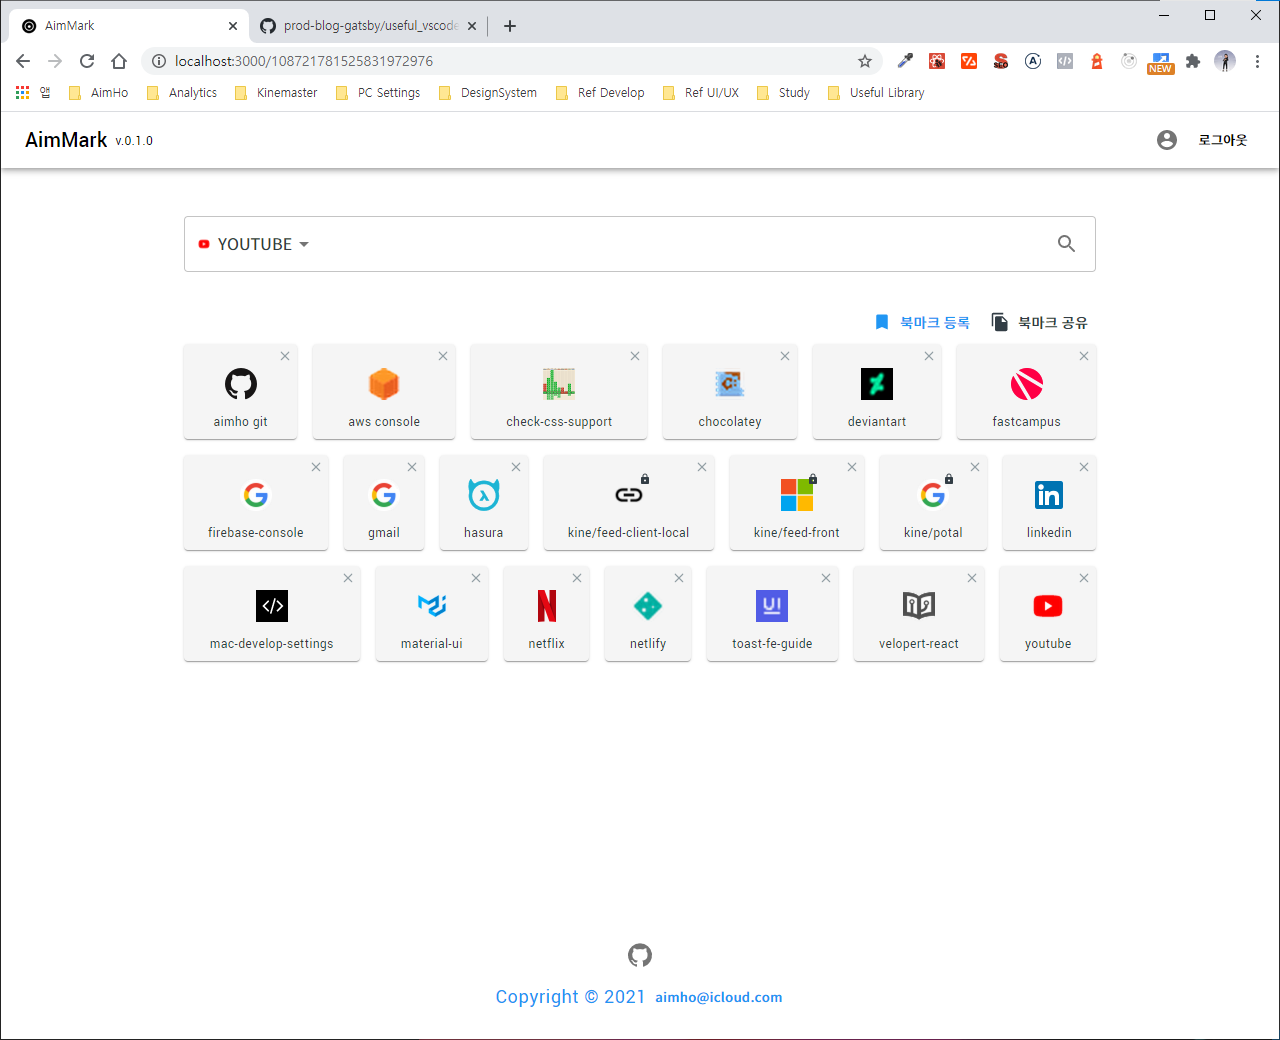
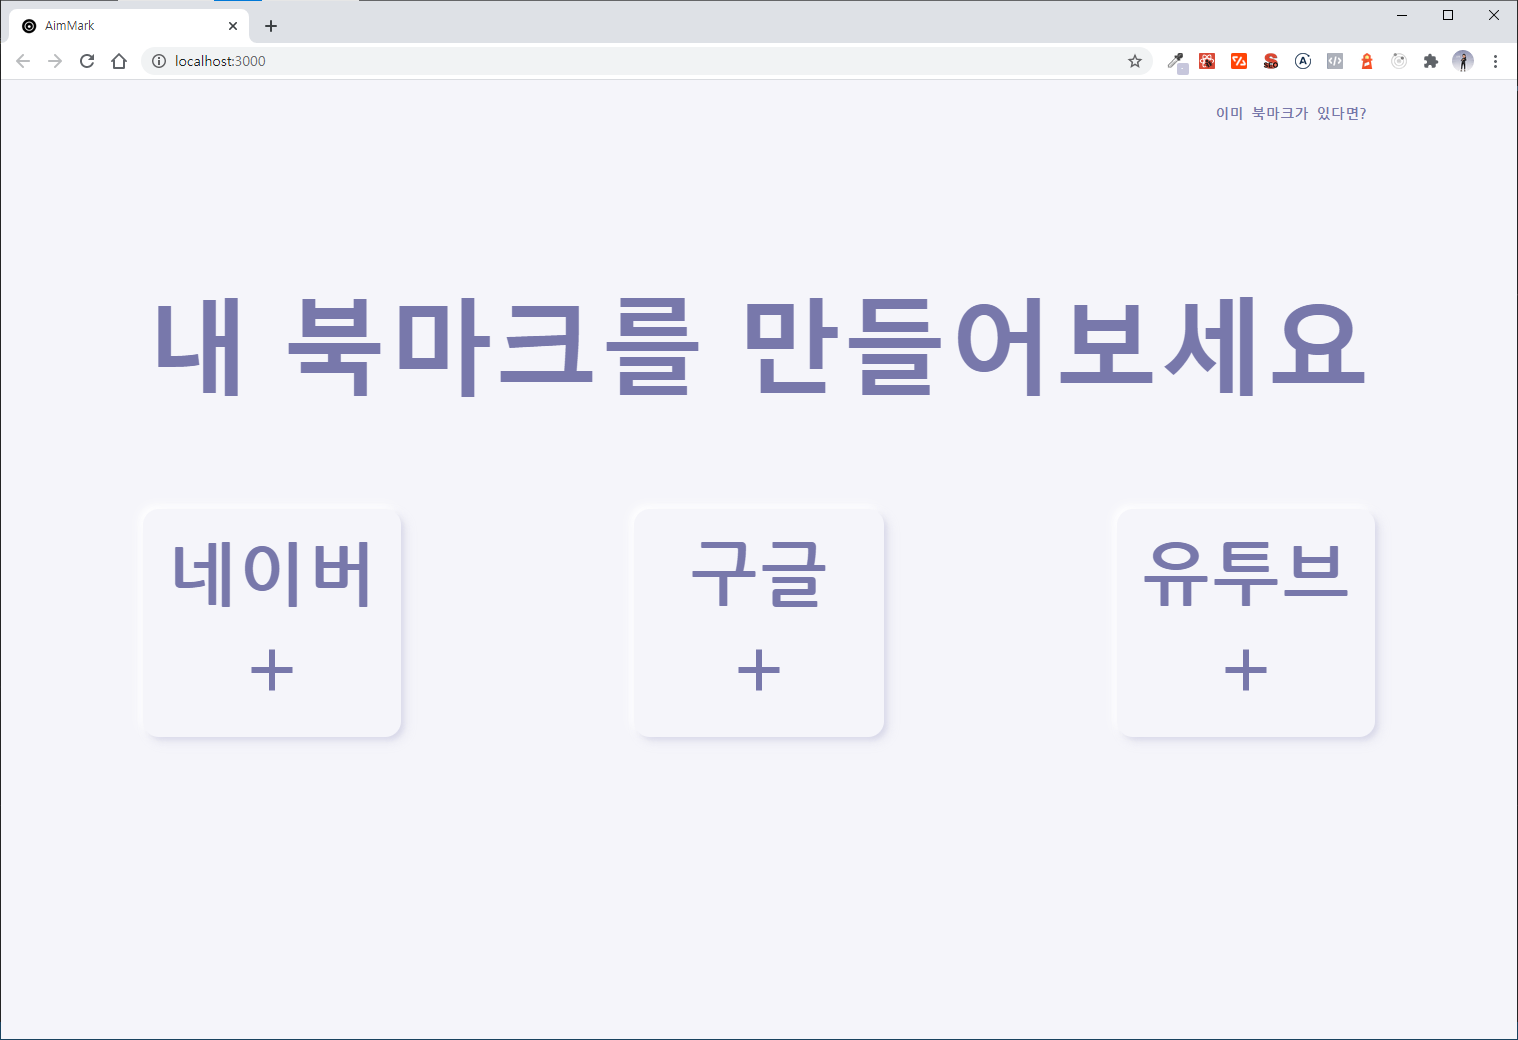
fix google login 진행 실패 시 무한 로딩 / update mobile style cover / update read me

diff --git a/src/routes/Detail/DetailHeader.tsx b/src/routes/Detail/DetailHeader.tsx
@@ -1,12 +1,18 @@
-import React from "react";
+import React, { useEffect } from "react";
 import { useSnackbar } from "notistack";
 import { CopyToClipboard } from "react-copy-to-clipboard";
+import { useSetRecoilState } from "recoil";
 
 import { Skeleton } from "@material-ui/lab";
 import { FileCopy } from "@material-ui/icons";
 import { Avatar, Button, Container, Grid } from "@material-ui/core";
 
-import { useGetUserPhotoUrlQuery } from "../../generated/graphql";
+import { onSignInGoogle } from "../../utils";
+import { userProfile } from "../../recoils/userState";
+import {
+  useGetUserPhotoUrlQuery,
+  useGetUserLazyQuery,
+} from "../../generated/graphql";
 
 interface Props {
   ownerId: string;
@@ -14,6 +20,31 @@ interface Props {
 
 const DetailHeader = ({ ownerId }: Props) => {
   const { enqueueSnackbar } = useSnackbar();
+  const [getUser, userState] = useGetUserLazyQuery();
+  const userByPk = userState.data?.user_by_pk;
+  const setProfile = useSetRecoilState(userProfile);
+  useEffect(() => {
+    if (!userByPk || userByPk.__typename !== "user") return;
+
+    const { id, email, photoUrl } = userByPk;
+    setProfile({ id, email, photoUrl });
+  }, [userByPk, setProfile]);
+
+  const onSignIn = async () => {
+    try {
+      const googleResult = await onSignInGoogle();
+      if (!googleResult) {
+        // eslint-disable-next-line
+        throw "onSignInGoogle fail";
+      }
+
+      // firebase data extract
+      const { uid } = googleResult;
+      getUser({ variables: { uid } });
+    } catch (error) {
+      console.error(error);
+    }
+  };
 
   const { href } = window.location;
   const onCopy = () => {
@@ -33,7 +64,14 @@ const DetailHeader = ({ ownerId }: Props) => {
         <Skeleton variant="circle" width={40} height={40} animation="wave" />
       );
     }
-    return <Avatar alt={"profile"} src={photoUrl} />;
+    return (
+      <Avatar
+        alt={"profile"}
+        src={photoUrl}
+        onClick={onSignIn}
+        style={{ cursor: "pointer" }}
+      />
+    );
   };
 
   return (

diff --git a/src/routes/Detail/DetailBookmarkAddDialog.tsx b/src/routes/Detail/DetailBookmarkAddDialog.tsx
@@ -1,4 +1,4 @@
-import React from "react";
+import React, { useState } from "react";
 import { useForm } from "react-hook-form";
 
 import {
@@ -27,11 +27,13 @@ const DetailBookmarkAddDialog = ({ onCloseCallBack }: Props) => {
   const { register, handleSubmit, errors } = useForm();
   const { url, name } = errors;
 
-  const [open, setOpen] = React.useState(false);
+  const [open, setOpen] = useState(false);
   const onOpenDialog = () => setOpen(true);
   const onCloseDialog = () => setOpen(false);
+  const [disabled, setDisabled] = useState(false);
 
   const onSubmit = async (data: any) => {
+    setDisabled(true);
     const { url, name } = data;
     if (!id) {
       console.error("user id is null");
@@ -45,6 +47,7 @@ const DetailBookmarkAddDialog = ({ onCloseCallBack }: Props) => {
     }).then(() => {
       onCloseDialog();
       onCloseCallBack();
+      setDisabled(false);
     });
   };
 
@@ -95,10 +98,20 @@ const DetailBookmarkAddDialog = ({ onCloseCallBack }: Props) => {
             </Grid>
           </DialogContent>
           <DialogActions>
-            <Button variant="text" color="secondary" onClick={onCloseDialog}>
+            <Button
+              variant="text"
+              color="secondary"
+              onClick={onCloseDialog}
+              disabled={disabled}
+            >
               취소
             </Button>
-            <Button variant="text" color="primary" type="submit">
+            <Button
+              variant="text"
+              color="primary"
+              type="submit"
+              disabled={disabled}
+            >
               추가
             </Button>
           </DialogActions>

diff --git a/src/routes/Home/HomePresenter.tsx b/src/routes/Home/HomePresenter.tsx
@@ -15,7 +15,7 @@ import { Title } from "./style";
 interface Props {
   isIn: boolean;
   onSignIn: () => void;
-  onStart: (item: IBookmarkInput) => void;
+  onStart: (item: IBookmarkInput) => Promise<{ error: boolean }>;
 }
 
 function HomePresenter({ isIn, onSignIn, onStart }: Props) {
@@ -29,9 +29,10 @@ function HomePresenter({ isIn, onSignIn, onStart }: Props) {
     if (selected === -1) return false;
     return selected !== index ? true : false;
   };
-  const onClickItem = (item: IBookmarkInput, index: number) => {
-    onStart(item);
+  const onClickItem = async (item: IBookmarkInput, index: number) => {
     setSelected(index);
+    const { error } = await onStart(item);
+    if (error) setSelected(-1);
   };
 
   return (
@@ -40,7 +41,11 @@ function HomePresenter({ isIn, onSignIn, onStart }: Props) {
         <Container component="header" style={{ margin: "12px auto" }}>
           <Grid container justify="flex-end">
             <Grid item>
-              <Button variant="text" onClick={onSignIn}>
+              <Button
+                variant="text"
+                onClick={onSignIn}
+                style={{ fontWeight: "bold" }}
+              >
                 <p>이미 북마크가 있다면?</p>
               </Button>
             </Grid>

diff --git a/src/routes/Detail/DetailBookmark.tsx b/src/routes/Detail/DetailBookmark.tsx
@@ -3,7 +3,13 @@ import { useRecoilValue } from "recoil";
 import { useSnackbar } from "notistack";
 
 import { Skeleton } from "@material-ui/lab";
-import { Container, Typography, Grid } from "@material-ui/core";
+import {
+  Container,
+  Typography,
+  Grid,
+  useTheme,
+  useMediaQuery,
+} from "@material-ui/core";
 
 import {
   useDeleteItemMutation,
@@ -21,6 +27,9 @@ interface Props {
 }
 
 const DetailBookmark = ({ ownerId }: Props) => {
+  const theme = useTheme();
+  const matchesMobile = useMediaQuery(theme.breakpoints.down("xs"));
+
   const { enqueueSnackbar } = useSnackbar();
   const { data, error, refetch } = useGetUserItemQuery({
     variables: { user_id: ownerId },
@@ -123,7 +132,7 @@ const DetailBookmark = ({ ownerId }: Props) => {
             const grow = Math.floor(item.name.length / 10) + 1;
             return {
               flexGrow: grow,
-              maxWidth: "345px",
+              maxWidth: matchesMobile ? "auto" : "345px",
             };
           };
 

diff --git a/src/routes/Home/HomeContainer.tsx b/src/routes/Home/HomeContainer.tsx
@@ -64,11 +64,14 @@ function Home() {
 
         setProfile({ id, email, photoUrl });
         setSearchEngine(search_engine as TSearchEngine);
+        return id;
       } else {
         getUser({ variables: { uid } });
+        return "";
       }
     } catch (error) {
       console.error(error);
+      return "";
     }
   };
 
@@ -80,18 +83,24 @@ function Home() {
     const base_url = new URL(item.url).origin;
 
     try {
-      await onSignIn();
+      let userId = id;
+      if (!userId) {
+        userId = await onSignIn();
+      }
+
+      if (!userId) return { error: true };
       await insertItem({
         variables: {
           url: item.url,
           name: item.name,
           base_url,
-          user_id: id,
+          user_id: userId,
         },
       });
-      history.replace(`/${id}`);
+      history.replace(`/${userId}`);
+      return { error: false };
     } catch (error) {
-      console.error(error);
+      return { error: true };
     }
   };
 

diff --git a/src/styles/customStyles.ts b/src/styles/customStyles.ts
@@ -55,6 +55,13 @@ export const CardButton = styled(ButtonBase)`
   font-weight: bold;
   text-align: center;
   flex-direction: column;
+  ${({ theme }) => `
+    ${theme.breakpoints.down("xs")} {
+      width: 100%;
+      font-size: 24px;
+      padding: 16px 12px;
+    }
+  `}
   p {
     margin-bottom: 24px;
   }
@@ -68,6 +75,11 @@ export const BookmarkButton = styled(CardButton)`
   position: relative;
   align-items: center;
   margin-bottom: 8px;
+  ${({ theme }) => `
+    ${theme.breakpoints.down("xs")} {
+      font-size: 12px;
+    }
+  `}
 
   img {
     opacity: 0.1;

diff --git a/src/routes/Home/style.ts b/src/routes/Home/style.ts
@@ -7,4 +7,12 @@ export const Title = styled(Typography)`
   font-size: 105px;
   font-weight: bold;
   text-align: center;
+  ${({ theme }) => `
+    ${theme.breakpoints.down("xs")} {
+      margin-top: 35px;
+      margin-bottom: 40px;
+      font-size: 40px;
+      word-break: keep-all;
+    }
+  `}
 `;

diff --git a/src/routes/Detail/DetailSearchBar.tsx b/src/routes/Detail/DetailSearchBar.tsx
@@ -35,7 +35,7 @@ const DetailSearchBar = () => {
     <Container
       maxWidth="md"
       component="section"
-      style={{ margin: "32px auto" }}
+      style={{ margin: "48px auto" }}
     >
       <Grid
         container

diff --git a/README.md b/README.md
@@ -3,20 +3,24 @@
 
 # 사용 방법
 
-`main page`는 검색 바와 가장 최근에 등록된 북마크 20개가 노출됩니다. 검색 바의 검색엔진은 Naver, Google, Youtube 중 한 가지를 선택하여 검색하면 됩니다.
+### Guide Page
 
-![main_page](./src/styles/images/main_page.png "main_page")
+사이트 첫 방문 시 가이드 페이지 입니다.
 
-회원 연동은 Google 로그인을 통해 이루어지며, 로그인 시 `client page`로 이동하게 됩니다. 로그인한 경우, `client page`의 정보를 수정할 수 있으며 검색 바에서 선택한 검색엔진도 저장됩니다.
+기존 유저는 오른쪽 상단에 있는 `이미 북마크가 있다면?` 버튼을 클릭하면 Google 로그인 후 유저 페이지로 이동합니다. 신규 유저의 경우 아래 버튼 3개 중 하나를 클릭하면 샘플 북마크가 생성된 유저 페이지로 이동합니다.
 
-![client_page](./src/styles/images/client_page_1.png "client_page")
+![guide_page](./src/styles/images/client_page_1.png "guide_page")
 
-북마크 공유 버튼 클릭 시 현재 북마크 주소가 복사됩니다.
+### User Page
 
-북마크 등록 버튼 클릭 시 등록 팝업이 노출되며, 등록할 북마크의 이름, URL, 공개 여부를 선택하여 추가할 수 있습니다. 등록된 북마크는 이름순으로 정렬됩니다.
+유저가 사용할 페이지입니다.
 
-비공개로 선택된 북마크의 경우 아이콘 우측 상단에 자물쇠 표시가 붙으며, 해당 페이지 소유자 외에는 북마크가 노출되지 않습니다. (`main page` 노출도 되지 않습니다.)
+북마크를 저장/삭제 할 수 있고 구글, 유투브, 네이버 중 1가지 검색엔진을 선택하여 검색바를 사용할 수 있습니다. 모든 링크는 새창으로 열리며, 오른쪽의 `북마크 공유` 버튼 클릭 시 유저의 북마크 주소가 복사되어 다른 유저에게 공유할 수 있습니다.
 
-![add_bookmark](./src/styles/images/client_page_2.png "add_bookmark")
+로그인 상태는 브라우저를 다시 켜도 유지되지만, 만약 로그인이 풀린 경우 유저의 `아바타` 버튼을 클릭하면 재로그인 할 수 있습니다.
 
-등록된 북마크 우측 상단의 **x** 버튼 클릭 시 삭제 확인 여부 브라우저 팝업이 노출되며 확인 클릭 시 해당 북마크는 삭제됩니다.
+해당 북마크의 소유자 아니면 북마크 아이템들을 삭제하거나 추가 할 수 없습니다. 북마크 추가는 하단 `+` 버튼, 삭제는 해당 아이템 hover 시 오른쪽 상단 `x` 버튼을 클릭하면 됩니다.
+
+![client_page1](./src/styles/images/client_page_2.png "client_page1")
+
+![client_page2](./src/styles/images/client_page_3.png "client_page2")
